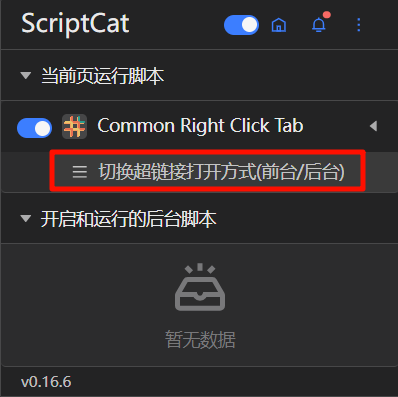
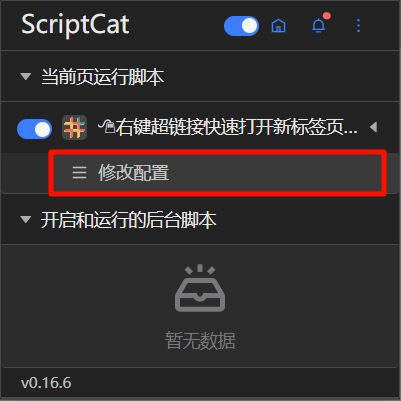
feat: :sparkles: 超链接触发方式支持配置

diff --git a/apps/common/right-click-tab/src/view.ts b/apps/common/right-click-tab/src/view.ts
@@ -1,11 +1,67 @@
 import type Store from './store'
-import swal from 'sweetalert'
+import Swal from 'sweetalert2'
+
+const Toast = Swal.mixin({
+  toast: true,
+  position: 'top-end',
+  showConfirmButton: false,
+  timer: 3000,
+  timerProgressBar: true,
+  didOpen: (toast) => {
+    toast.onmouseenter = Swal.stopTimer
+    toast.onmouseleave = Swal.resumeTimer
+  },
+})
 
 export default class View {
   constructor(private store: Store) { }
 
-  public toggleActive = () => {
-    this.store.active = !this.store.active
-    swal(`超链接右键已切换为 [${this.store.active ? '前台' : '后台'}] 模式打开`, '', 'success')
+  public config = async () => {
+    const { isConfirmed, value } = await Swal.fire({
+      title: '设置',
+      html: `<p style="margin: 0 !important; text-align: left;">超链接打开模式:</p>
+      <select id="active-mode" class="swal2-select" style="width: 100%; margin: .75rem 0 !important;">
+        <option value="background">后台</option>
+        <option value="foreground">前台</option>
+      </select>
+      <p style="margin: 0 !important; text-align: left;">超链接触发模式:</p>
+      <select id="trigger-mode" class="swal2-select" style="width: 100%; margin: .75rem 0 !important;">
+        <option value="double">右键双击</option>
+        <option value="single">右键单击</option>
+      </select>`,
+      willOpen: (popup) => {
+        const activeMode = popup.querySelector('#active-mode') as HTMLSelectElement
+        const triggerMode = popup.querySelector('#trigger-mode') as HTMLSelectElement
+        activeMode.value = this.store.active ? 'foreground' : 'background'
+        triggerMode.value = this.store.trigger
+      },
+      preConfirm: () => {
+        const activeMode = document.getElementById('active-mode') as HTMLSelectElement
+        const triggerMode = document.getElementById('trigger-mode') as HTMLSelectElement
+        return {
+          activeMode: activeMode.value,
+          triggerMode: triggerMode.value,
+        }
+      },
+      showCancelButton: true,
+      confirmButtonText: '保存',
+      cancelButtonText: '取消',
+    })
+
+    if (!isConfirmed) {
+      await Toast.fire({
+        icon: 'warning',
+        title: '已取消设置',
+      })
+      return
+    }
+
+    this.store.active = value.activeMode === 'foreground'
+    this.store.trigger = value.triggerMode
+
+    await Toast.fire({
+      icon: 'success',
+      title: '设置已保存',
+    })
   }
 }

diff --git a/apps/common/right-click-tab/src/index.ts b/apps/common/right-click-tab/src/index.ts
@@ -28,24 +28,38 @@ function tryGetUrl(element: Element): string | null {
 }
 
 document.addEventListener('contextmenu', (e: MouseEvent) => {
+  const href = tryGetUrl(e.target as Element)?.trim()
+
+  if (!href) {
+    return
+  }
+
   if (timer > CLEANED) {
+    // double click
     clearTimeout(timer)
     timer = CLEANED
-  }
-  else {
-    const href = tryGetUrl(e.target as Element)?.trim()
-
-    if (href) {
-      if (import.meta.env.DEV) {
-        console.log(`open ${href} in ${store.active ? 'foreground' : 'background'} mode`)
-      }
+    if (store.trigger === 'double') {
       e.preventDefault()
-      timer = setTimeout(() => {
-        timer = CLEANED
-        GM_openInTab(href, { active: store.active })
-      }, THRESHOLD)
+      GM_openInTab(href, { active: store.active })
     }
+    return
   }
+
+  if (import.meta.env.DEV) {
+    console.log(`open ${href} in ${store.active ? 'foreground' : 'background'} mode`)
+  }
+
+  if (store.trigger === 'single') {
+    e.preventDefault()
+  }
+
+  timer = setTimeout(() => {
+    // single click
+    timer = CLEANED
+    if (store.trigger === 'single') {
+      GM_openInTab(href, { active: store.active })
+    }
+  }, THRESHOLD)
 })
 
-GM_registerMenuCommand('切换超链接打开方式(前台/后台)', view.toggleActive)
+GM_registerMenuCommand('修改配置', view.config)

diff --git a/apps/common/right-click-tab/src/store.ts b/apps/common/right-click-tab/src/store.ts
@@ -1,18 +1,24 @@
 import { GM_addValueChangeListener, GM_getValue, GM_setValue } from '$'
 import { ID } from 'virtual:meta'
 
-const LAST_VERSION = 1
-
-export interface Config {
-  version: 1
-  active: boolean
-}
+const LAST_VERSION = 2
 
 interface ConfigV0 {
   version: 0
 }
 
-type UnFormatConfig = ConfigV0 | Config
+interface ConfigV1 {
+  version: 1
+  active: boolean
+}
+
+export interface Config {
+  version: 2
+  active: boolean
+  trigger: 'double' | 'single'
+}
+
+type UnFormatConfig = ConfigV0 | ConfigV1 | Config
 
 interface ConfigChangeListener {
   (config: Config): void
@@ -53,13 +59,14 @@ export default class Store {
     const config: Config = {
       version: LAST_VERSION,
       active: true,
+      trigger: 'single',
     }
     if (!data) {
       return config
     }
     if (data.version === 0) {
       // v0 => v1
-      return config
+      // return config
     }
     // ...
     return Object.assign(config, data)
@@ -71,6 +78,15 @@ export default class Store {
 
   public set active(value: Config['active']) {
     this.config.active = value
+    this.saveConfig()
+  }
+
+  public get trigger() {
+    return this.config.trigger
+  }
+
+  public set trigger(value: Config['trigger']) {
+    this.config.trigger = value
     this.saveConfig()
   }
 }

diff --git a/apps/common/right-click-tab/vite.config.ts b/apps/common/right-click-tab/vite.config.ts
@@ -12,7 +12,7 @@ export default defineConfig({
       entry: 'src/index.ts',
       build: {
         externalGlobals: {
-          sweetalert: cdn.unpkg('swal', 'dist/sweetalert.min.js'),
+          sweetalert2: cdn.unpkg('Swal', 'dist/sweetalert2.all.min.js'),
         },
       },
       userscript: {

diff --git a/apps/common/right-click-tab/README.md b/apps/common/right-click-tab/README.md
@@ -8,11 +8,6 @@
 
 ## 📖 使用方式
 
-1. 右键单击超链接：在新标签页打开
-2. 右键单击鼠标选中带有链接的文字：在新标签页打开
-3. 右键双击超链接：原右键菜单
-4. 非上述使用情况单击右键：原右键菜单
-
 ![](https://raw.githubusercontent.com/xiaohuohumax/userscripts/main/apps/common/right-click-tab/images/monkey.png)
 
-![](https://raw.githubusercontent.com/xiaohuohumax/userscripts/main/apps/common/right-click-tab/images/config-result.png)
+![](https://raw.githubusercontent.com/xiaohuohumax/userscripts/main/apps/common/right-click-tab/images/config.png)

diff --git a/apps/common/right-click-tab/CHANGELOG.md b/apps/common/right-click-tab/CHANGELOG.md
@@ -1,5 +1,11 @@
 # right-click-tab
 
+## 1.3.0
+
+### Minor Changes
+
+- 超链接触发方式支持配置
+
 ## 1.2.1
 
 ### Patch Changes
